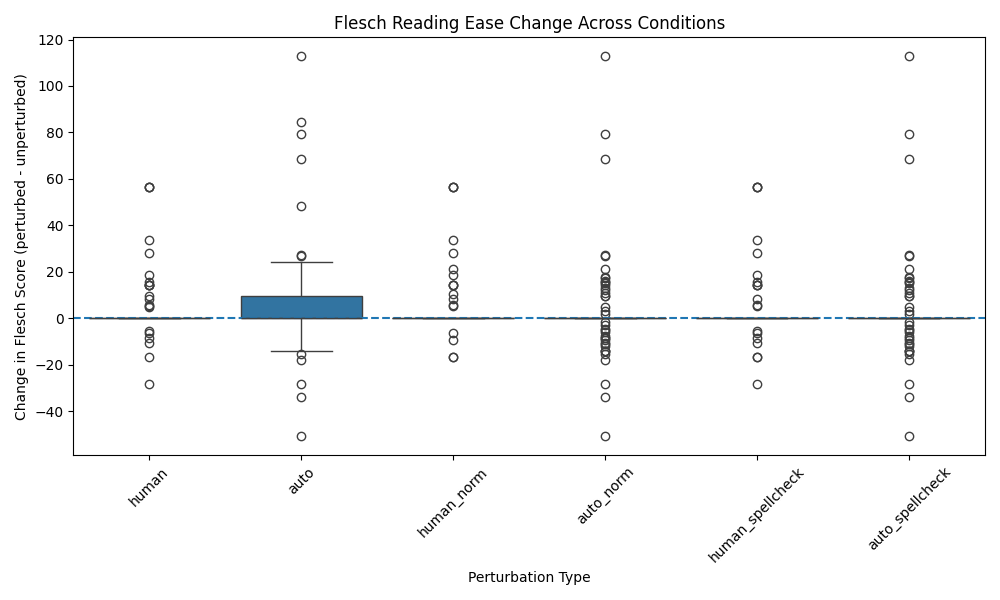
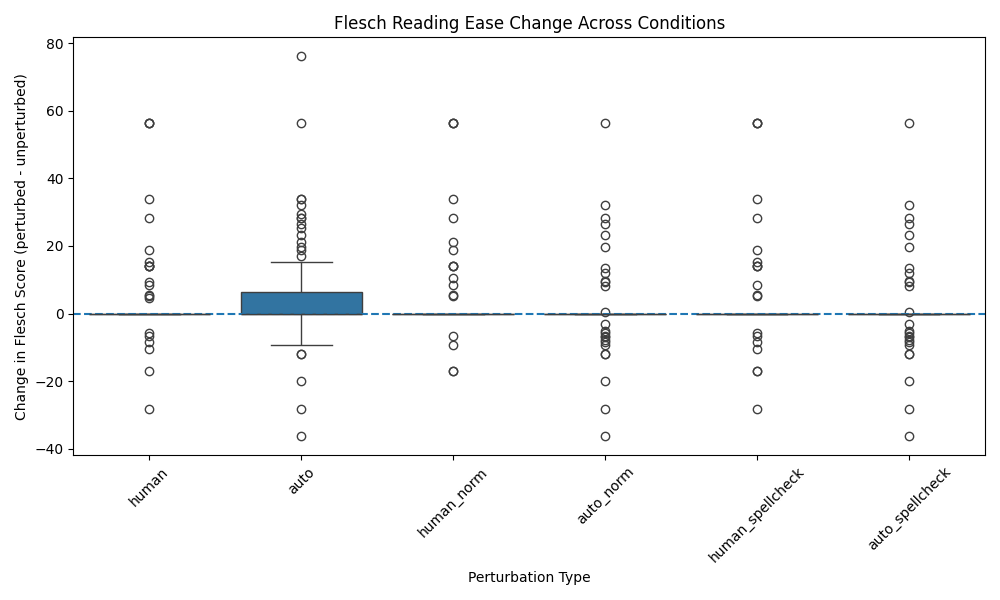
removed some older tests

diff --git a/models/hatexplain.py b/models/hatexplain.py
@@ -20,15 +20,3 @@ def hatexplain(texts):
         preds = torch.argmax(outputs.logits, dim=1).item()
         labels.append(LABEL_MAP[preds])
     return labels
-
-if __name__ == "__main__":
-    sample_texts = [
-        "I hate you",
-        "Have a nice day!",
-        "how are you?",
-        "You're so dumb",
-        "what's wrong with you? you idiot"
-    ]
-    predictions = hatexplain(sample_texts)
-    for text, label in zip(sample_texts, predictions):
-        print(f"Text: {text} | Predicted Label: {label}")

diff --git a/data/automated.py b/data/automated.py
@@ -1,7 +1,5 @@
 from textattack.augmentation import WordNetAugmenter
 import random
-import unicodedata
-import numpy as np
 
 HOMOGLYPHS = {
     "a": "a", "e": "e", "i": "i", "o": "o", "u": "u",
@@ -85,11 +83,3 @@ def automated_perturbation(texts, num_examples=50):
         perturbed.append(out)
 
     return perturbed
-
-
-
-if __name__ == "__main__":
-    sample_texts = ["I hate you", "You're so dumb", "Go away"]
-    perturbed = automated_perturbation(sample_texts)
-    for p in perturbed:
-        print(p)

diff --git a/evaluation/results.py b/evaluation/results.py
@@ -9,8 +9,3 @@ def compare_toxicity_scores(df_clean, df_pert, label="toxicity"):
         "max_drop": diffs.max(),
     }
     return pd.DataFrame([summary])
-
-if __name__ == "__main__":
-    df_clean = pd.DataFrame({"toxicity": [0.8, 0.6, 0.9]})
-    df_pert = pd.DataFrame({"toxicity": [0.5, 0.4, 0.6]})
-    print(compare_toxicity_scores(df_clean, df_pert))

diff --git a/models/detoxify_model.py b/models/detoxify_model.py
@@ -6,8 +6,3 @@ model = Detoxify('original')
 def evaluate_toxicity(texts):
     results = model.predict(texts)
     return pd.DataFrame(results)
-
-if __name__ == "__main__":
-    texts = ["I hate you", "Have a nice day!"]
-    scores = evaluate_toxicity(texts)
-    print(scores)

diff --git a/data/noisyhate.py b/data/noisyhate.py
@@ -26,8 +26,3 @@ def load_noisyhate():
         print("Columns:", df.columns.tolist())
         print(df.head())
         return df
-
-
-if __name__ == "__main__":
-    df = load_noisyhate()
-    print(f"\n✅ Dataset loaded successfully with {len(df)} rows.")

diff --git a/mitigations/normalisation.py b/mitigations/normalisation.py
@@ -12,6 +12,3 @@ def normalise_text(text):
     text = re.sub(r'[^a-z\s]', '', text)
     text = re.sub(r'\s+', ' ', text)
     return text.strip()
-
-if __name__ == "__main__":
-    print(normalise_text("H@t3 sp33ch!!! sooo b4d!!!"))

diff --git a/run.py b/run.py
@@ -283,7 +283,7 @@ def main():
 
 
 
-    print("\n✅ Experiment complete.")
+    print("\nExperiment complete.")
 
 if __name__ == "__main__":
     main()
